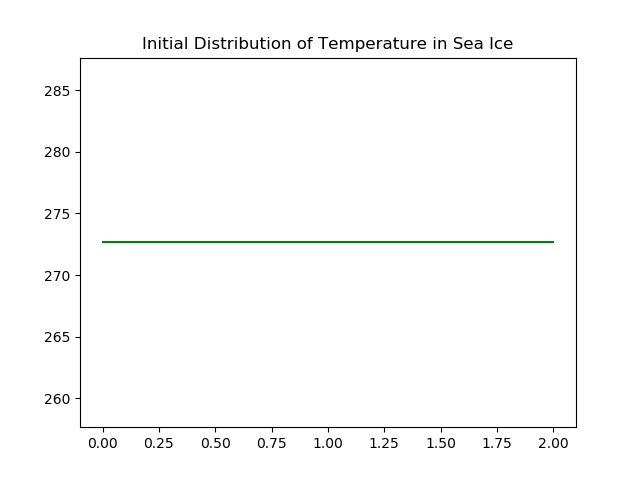
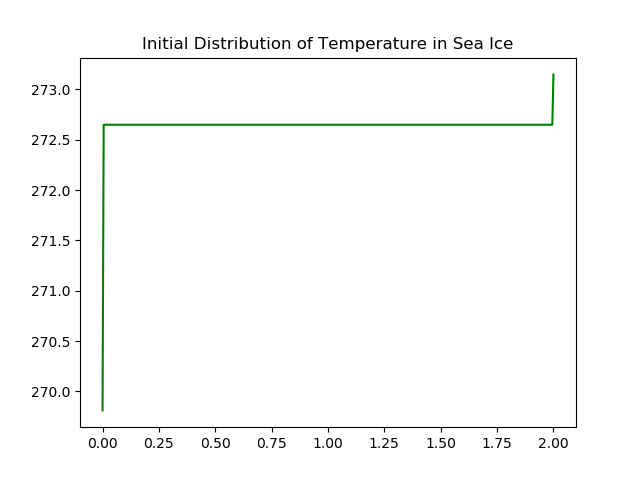
updates

diff --git a/explicit-solver/simple_explicit_iceheat.py b/explicit-solver/simple_explicit_iceheat.py
@@ -41,14 +41,13 @@ x = np.linspace(0.0,L,n+1);
 #ND Parameters
 diff_time_scale = (float(L**2))/(alpha_ice) #in seconds
 
-# Create two boundary conditions (top and bottom of ice)
-T_it = 272.65
-T_ib = 273.15
-
-#Create Solution Vector and initial profile
+#Create Solution Vector (Tsoln) and initial profile (Tsoln_pr)
 Tsoln = np.zeros(n+1)
 Tsoln_pr = np.full(n+1, 272.65)
-init = np.full(n+1, 272.65)
+
+#Set the initial boundary conditions
+Tsoln_pr[0] = air_temp(0.0)
+Tsoln_pr[-1] = 273.15
 
 # Now we have a initial linear distribution of temperature in the sea ice
 plt.plot(x,Tsoln_pr,"g-",label="Initial Profile")
@@ -84,6 +83,7 @@ shutil.rmtree('D:\Coursework\APC 523 Numerical Algorithms\HeatEquation\crank-nic
 
 for i in range(0,nt):
     
+    # time in seconds to hours on a 24-hour clock will be used for air temp function
     print(f"i={i}/{nt}, %={(i/nt)*100:.3f}, hr={(i*dt/3600)%24:.4f}")
     
     # Run through the FTCS with these BC
@@ -92,9 +92,6 @@ for i in range(0,nt):
 #    for j in range(1,n):
 #        Tsoln[j] = Tsoln_pr[j] + r*(Tsoln_pr[j+1]-2*Tsoln_pr[j]+Tsoln_pr[j-1])
     
-    # time in seconds to hours on a 24-hour clock will be used for radiation function
-    
-
     #Now set the top root as the new BC for Tsoln
     Tsoln[0]=air_temp(i*dt)
     
@@ -136,7 +133,6 @@ imageio.mimsave('icemovie.gif',images)
 locs, labels = plt.yticks()
     
 # Plot the figure after nt iterations with initial profile
-plt.plot(x,init,"g",label="Initial Profile")
 plt.plot(x,Tsoln,"k",label=f"After {t_days:.2f} days")
 title1=f"Distribution of Temperature in Sea Ice after {t_days:.2f} days"
 plt.title(title1)
